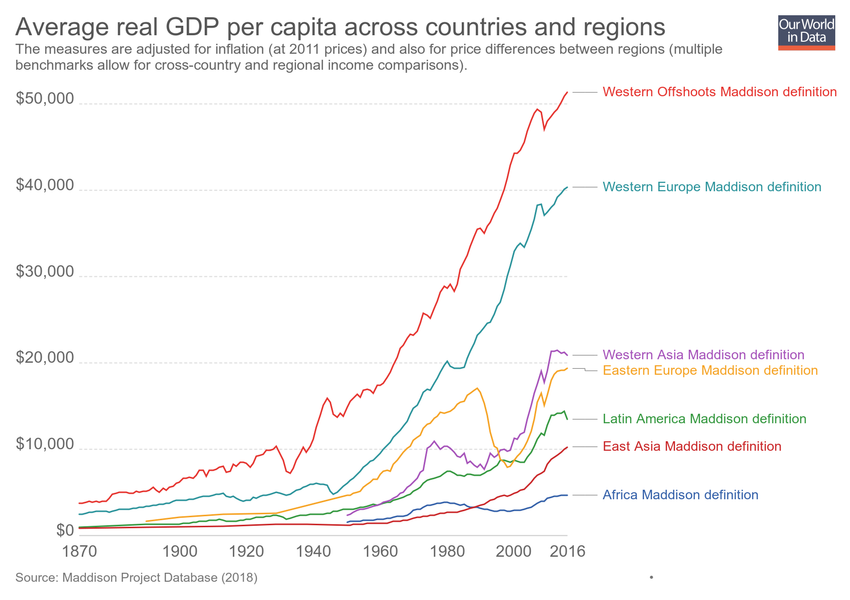
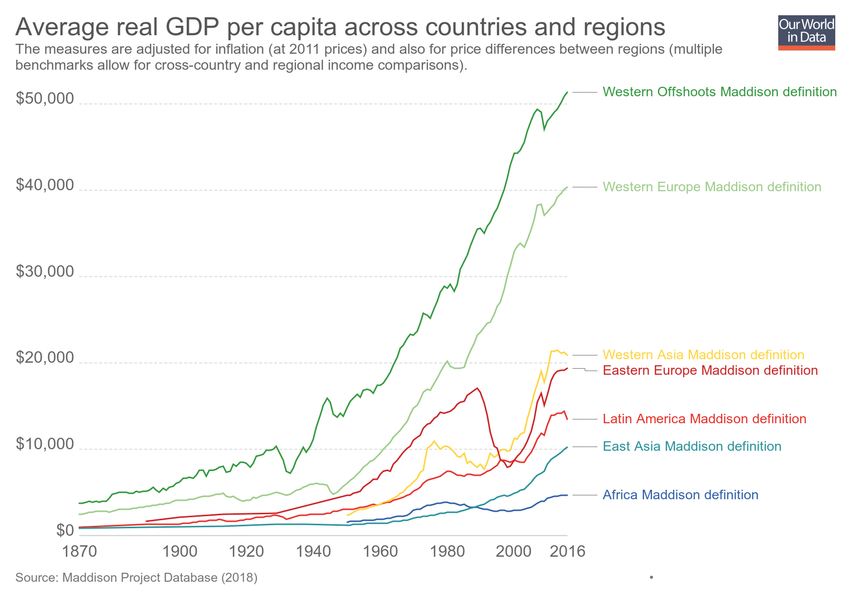
Updating chart average-real-gdp-per-capita-across-countries-and-regions

diff --git a/grapher/average-real-gdp-per-capita-across-countries-and-regions.html b/grapher/average-real-gdp-per-capita-across-countries-and-regions.html
@@ -1,4 +1,4 @@
-<!doctype html><html><head><meta name="viewport" content="width=device-width, initial-scale=1" /><title>Average real GDP per capita across countries and regions - Our World in Data</title><meta name="description" content="The measures are adjusted for inflation (at 2011 prices) and also for price differences between regions (multiple benchmarks allow for cross-country and regional income comparisons)." /><link rel="canonical" href="https://ourworldindata.org/grapher/average-real-gdp-per-capita-across-countries-and-regions" /><meta property="fb:app_id" content="1149943818390250" /><meta property="og:url" content="https://ourworldindata.org/grapher/average-real-gdp-per-capita-across-countries-and-regions" /><meta property="og:title" content="Average real GDP per capita across countries and regions" /><meta property="og:description" content="The measures are adjusted for inflation (at 2011 prices) and also for price differences between regions (multiple benchmarks allow for cross-country and regional income comparisons)." /><meta property="og:image" content="https://ourworldindata.org/grapher/exports/average-real-gdp-per-capita-across-countries-and-regions.png?v=3" /><meta property="og:image:width" content="850" /><meta property="og:image:height" content="600" /><meta property="og:site_name" content="Our World in Data" /><meta name="twitter:card" content="summary_large_image" /><meta name="twitter:site" content="@OurWorldInData" /><meta name="twitter:creator" content="@OurWorldInData" /><meta name="twitter:title" content="Average real GDP per capita across countries and regions" /><meta name="twitter:description" content="The measures are adjusted for inflation (at 2011 prices) and also for price differences between regions (multiple benchmarks allow for cross-country and regional income comparisons)." /><meta name="twitter:image" content="https://ourworldindata.org/grapher/exports/average-real-gdp-per-capita-across-countries-and-regions.png?v=3" /><style>
+<!doctype html><html><head><meta name="viewport" content="width=device-width, initial-scale=1" /><title>Average real GDP per capita across countries and regions - Our World in Data</title><meta name="description" content="The measures are adjusted for inflation (at 2011 prices) and also for price differences between regions (multiple benchmarks allow for cross-country and regional income comparisons)." /><link rel="canonical" href="https://ourworldindata.org/grapher/average-real-gdp-per-capita-across-countries-and-regions" /><meta property="fb:app_id" content="1149943818390250" /><meta property="og:url" content="https://ourworldindata.org/grapher/average-real-gdp-per-capita-across-countries-and-regions" /><meta property="og:title" content="Average real GDP per capita across countries and regions" /><meta property="og:description" content="The measures are adjusted for inflation (at 2011 prices) and also for price differences between regions (multiple benchmarks allow for cross-country and regional income comparisons)." /><meta property="og:image" content="https://ourworldindata.org/grapher/exports/average-real-gdp-per-capita-across-countries-and-regions.png?v=4" /><meta property="og:image:width" content="850" /><meta property="og:image:height" content="600" /><meta property="og:site_name" content="Our World in Data" /><meta name="twitter:card" content="summary_large_image" /><meta name="twitter:site" content="@OurWorldInData" /><meta name="twitter:creator" content="@OurWorldInData" /><meta name="twitter:title" content="Average real GDP per capita across countries and regions" /><meta name="twitter:description" content="The measures are adjusted for inflation (at 2011 prices) and also for price differences between regions (multiple benchmarks allow for cross-country and regional income comparisons)." /><meta name="twitter:image" content="https://ourworldindata.org/grapher/exports/average-real-gdp-per-capita-across-countries-and-regions.png?v=4" /><style>
         html, body {
             height: 100%;
             margin: 0;
@@ -20,8 +20,8 @@
         }
     </style><noscript><style>
                     figure { display: none !important; }
-                </style></noscript><link rel="stylesheet" href="https://ourworldindata.org/grapher/assets/commons.bundle.dcbbe53805c487d5e57617b10ac73a8a.css" /><link rel="preload" href="/grapher/data/variables/66390.json?v=3" as="fetch" crossorigin /></head><body class="singleChart"><figure data-grapher-src="/grapher/average-real-gdp-per-capita-across-countries-and-regions"></figure><noscript id="fallback"><img src="/grapher/exports/average-real-gdp-per-capita-across-countries-and-regions.svg" /><p>Interactive visualization requires JavaScript</p></noscript><script src="https://cdn.polyfill.io/v2/polyfill.min.js?features=es6,fetch"></script><script src="https://ourworldindata.org/grapher/assets/commons.bundle.da523acc49807a06a11f.js"></script><script src="https://ourworldindata.org/grapher/assets/charts.bundle.da523acc49807a06a11f.js"></script><script>
-        var jsonConfig = {"id":2709,"map":{"projection":"World","colorSchemeLabels":[],"colorSchemeValues":[],"customNumericColors":[],"customCategoryColors":{},"customCategoryLabels":{},"customHiddenCategories":{}},"tab":"chart","slug":"average-real-gdp-per-capita-across-countries-and-regions","type":"LineChart","title":"Average real GDP per capita across countries and regions","xAxis":{"scaleType":"linear"},"yAxis":{"min":0,"scaleType":"linear"},"version":3,"subtitle":"The measures are adjusted for inflation (at 2011 prices) and also for price differences between regions (multiple benchmarks allow for cross-country and regional income comparisons).","hasMapTab":false,"stackMode":"absolute","dimensions":[{"display":{},"property":"y","variableId":66390}],"hasChartTab":true,"isPublished":true,"selectedData":[{"index":0,"entityId":36432},{"index":0,"entityId":36429},{"index":0,"entityId":36430},{"index":0,"entityId":36433},{"index":0,"entityId":36431},{"index":0,"entityId":36434},{"index":0,"entityId":36435}],"addCountryMode":"add-country"};
+                </style></noscript><link rel="stylesheet" href="https://ourworldindata.org/grapher/assets/commons.bundle.dcbbe53805c487d5e57617b10ac73a8a.css" /><link rel="preload" href="/grapher/data/variables/66390.json?v=4" as="fetch" crossorigin /></head><body class="singleChart"><figure data-grapher-src="/grapher/average-real-gdp-per-capita-across-countries-and-regions"></figure><noscript id="fallback"><img src="/grapher/exports/average-real-gdp-per-capita-across-countries-and-regions.svg" /><p>Interactive visualization requires JavaScript</p></noscript><script src="https://cdn.polyfill.io/v2/polyfill.min.js?features=es6,fetch"></script><script src="https://ourworldindata.org/grapher/assets/commons.bundle.da523acc49807a06a11f.js"></script><script src="https://ourworldindata.org/grapher/assets/charts.bundle.da523acc49807a06a11f.js"></script><script>
+        var jsonConfig = {"id":2709,"map":{"projection":"World","colorSchemeLabels":[],"colorSchemeValues":[],"customNumericColors":[],"customCategoryColors":{},"customCategoryLabels":{},"customHiddenCategories":{}},"tab":"chart","slug":"average-real-gdp-per-capita-across-countries-and-regions","type":"LineChart","title":"Average real GDP per capita across countries and regions","xAxis":{"scaleType":"linear"},"yAxis":{"min":0,"scaleType":"linear"},"version":4,"subtitle":"The measures are adjusted for inflation (at 2011 prices) and also for price differences between regions (multiple benchmarks allow for cross-country and regional income comparisons).","hasMapTab":false,"stackMode":"absolute","dimensions":[{"display":{},"property":"y","variableId":66390}],"hasChartTab":true,"isPublished":true,"selectedData":[{"index":0,"entityId":36432},{"index":0,"entityId":36429},{"index":0,"entityId":36430},{"index":0,"entityId":36433},{"index":0,"entityId":36431},{"index":0,"entityId":36434},{"index":0,"entityId":36435}],"addCountryMode":"add-country","baseColorScheme":"stackedAreaDefault"};
         var figure = document.getElementsByTagName("figure")[0];
         try {
             window.App = {};
